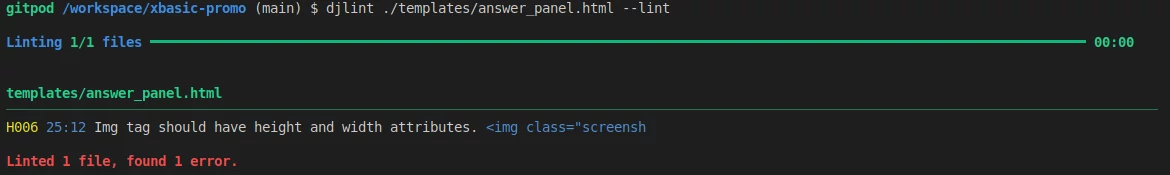
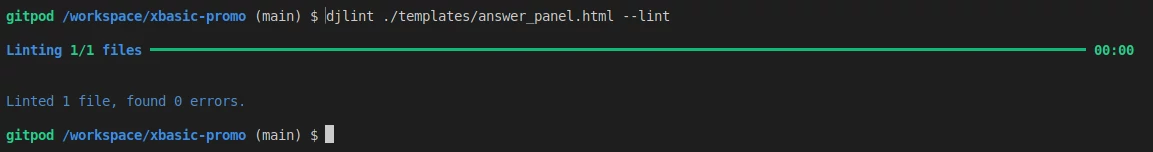
Add html tests

diff --git a/templates/base.html b/templates/base.html
@@ -1,7 +1,7 @@
 {% load static %}
 
 <!DOCTYPE html>
-<html class="h-100">
+<html class="h-100" lang="en">
 
 <head>
     <meta charset="UTF-8">
@@ -42,7 +42,7 @@
             <div class="col-6 col-sm-8 col-md-9 col-lg-10">
                 <div class="row site-heading-bar text-right">
                     <div class="col-12">
-                        <h1>XBasic Promo<h1>
+                        <h1>XBasic Promo</h1>
                     </div>
                 </div>
                 <!-- Menu -->
@@ -80,7 +80,7 @@
                                 </li>
                                 {% endif %}
                                 <li class="nav-item active menu-item">
-                                  <a class="nav-link active" href="{% url 'home' %}">Home <span class="sr-only">(current)</span></a>
+                                    <a class="nav-link" href="{% url 'home' %}">Home <span class="sr-only">(current)</span></a>
                                 </li>
                               </ul>
                             </div>
@@ -117,7 +117,7 @@
             <div class="col-3 footer-link-div text-center">
                 <div class="footer-link-block">
                     <a href="https://narayana-art.co.uk/XBManual" target="_blank">
-                        <img src="https://res.cloudinary.com/dye9ynxxb/image/upload/v1680544869/logo-small_hguofe.webp" alt="XBasic Logo">
+                        <img src="https://res.cloudinary.com/dye9ynxxb/image/upload/v1680544869/logo-small_hguofe.webp" width="40" height="40" alt="XBasic Logo">
                         XBasic Manual
                     </a>
                 </div>
@@ -125,7 +125,7 @@
             <div class="col-3 footer-link-div text-center">
                 <div class="footer-link-block">
                     <a href="https://sourceforge.net/projects/xbasic/" target="_blank">
-                        <img src="https://res.cloudinary.com/dye9ynxxb/image/upload/v1680544417/sourceforge-icon_ryuprq.webp" alt="Sourceforge">
+                        <img src="https://res.cloudinary.com/dye9ynxxb/image/upload/v1680544417/sourceforge-icon_ryuprq.webp" width="40" height="40" alt="Sourceforge">
                         Sourceforge Download
                     </a>
                 </div>
@@ -141,7 +141,7 @@
             <div class="col-3 footer-link-div text-center">
                 <div class="footer-link-block">
                     <a href="https://groups.io/g/MaxReasonsxBasic/topics?p=,,,0,0,0,0" target="_blank">
-                        <img src="https://res.cloudinary.com/dye9ynxxb/image/upload/v1680544633/groups.io-logo_cdjtcl.webp" alt="Groups.io Logo">
+                        <img src="https://res.cloudinary.com/dye9ynxxb/image/upload/v1680544633/groups.io-logo_cdjtcl.webp" width="40" height="40" alt="Groups.io Logo">
                         XBUser Group
                     </a>
                 </div>

diff --git a/templates/index.html b/templates/index.html
@@ -1,6 +1,5 @@
 {% extends 'base.html' %}
 
-
 {% block content %}
 <style>
     .site-intro-section {
@@ -33,13 +32,13 @@
     <div class="row">
         {% if forloop.counter|divisibleby:2 %}
         <div class="col-12">
-            <img class="section-img section-img-right" src="{{ section.section_image.url }}"  width="100%" alt="XBasic Demo Screen">
+            <img class="section-img section-img-right" src="{{ section.section_image.url }}"  width="100%" height="auto" alt="XBasic Demo Screen">
             <h3>{{ section.title }}</h3>
             <p class="article-text">{{ section.article | safe }}</p>
         </div>
         {% else %}
         <div class="col-12">
-            <img class="section-img section-img-left" src="{{ section.section_image.url }}"  width="100%" alt="XBasic Demo Screen">
+            <img class="section-img section-img-left" src="{{ section.section_image.url }}"  width="100%" height="auto" alt="XBasic Demo Screen">
             <h3>{{ section.title }}</h3>
             <p class="article-text">{{ section.article | safe }}</p>
         </div>

diff --git a/templates/issues.html b/templates/issues.html
@@ -14,7 +14,7 @@
         </div>
         <div class="row mb-3">
             <div class="col-12 text-center">
-                <form action="{% url 'issue_display' %}" method="GET">
+                <form action="{% url 'issue_display' %}" method="get">
                     {% if search_field == "X" %}
                     <input class="issue-search" name="issue_search" type="text" 
                         placeholder="Title, Description or Keyword words">

diff --git a/templates/issue_control.html b/templates/issue_control.html
@@ -168,7 +168,7 @@
             <div class="modal-header">
                 <h5 class="modal-title" id="confirmationModalLabel">Confirmation</h5>
                 <button type="button" class="close" data-dismiss="modal" aria-label="Close">
-                <span aria-hidden="true">&times;</span>
+                <span aria-hidden="true">×</span>
                 </button>
             </div>
             <div class="modal-body">

diff --git a/templates/answer_panel.html b/templates/answer_panel.html
@@ -22,7 +22,7 @@
     {% if 'placeholder' not in answer.screenshot_img.url %}
     <div class="row">
         <div class="col-12">
-            <img class="screenshot-img" src="{{ answer.screenshot_img.url }}" alt="Screenshot">
+            <img class="screenshot-img" src="{{ answer.screenshot_img.url }}" alt="Screenshot" width="350" height="auto">
         </div>
     </div>
     {% endif %}

diff --git a/templates/issue_panel.html b/templates/issue_panel.html
@@ -28,7 +28,7 @@
     {% if 'placeholder' not in issue.screenshot_img.url %}
     <div class="row">
         <div class="col-12">
-            <img class="screenshot-img" src="{{ issue.screenshot_img.url }}" alt="Screenshot">
+            <img class="screenshot-img" src="{{ issue.screenshot_img.url }}" width="100%" height="auto" alt="Screenshot">
         </div>
     </div>
     {% endif %}

diff --git a/README.md b/README.md
@@ -85,18 +85,39 @@ Note that the width for the image is set as 100% in the css file
 
 base
 
+The duplicate attribute is a repeated href used also for the title logo
+
+![djlint base.html](./doc/code-test-shots/base-html-test.webp)
+
 edit_answer
+
+The apparently orphan form tag is a part of a template
+conditional if .. else
+
+![djlint edit_answer.html](./doc/code-test-shots/edit-answer-html-test.webp)
 
 edit_issue
 
+The apparently orphan form tag is a part of a template
+conditional if .. else
+
+![djlint edit_issue.html](./doc/code-test-shots/edit-issue-html-test.webp)
+
 index
+
+![djlint index.html](./doc/code-test-shots/index-html-test.webp)
 
 issue_control
 
+![djlint issue_control.html](./doc/code-test-shots/issue-control-html-test.webp)
+
 issue_panel
+
+![djlint issue_panel.html](./doc/code-test-shots/issue-panel-html-test.webp)
 
 issues
 
+![djlint issues.html](./doc/code-test-shots/issues-html-test.webp)
 
 ## Errors / Bug Reports
 
